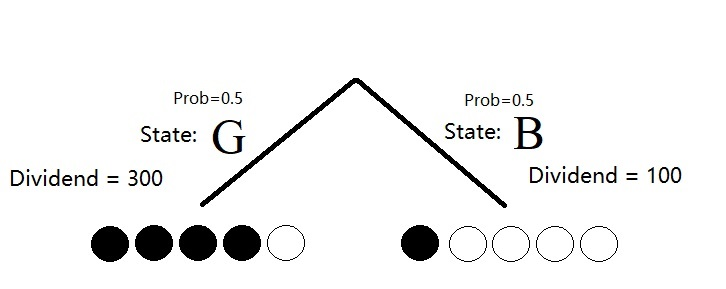
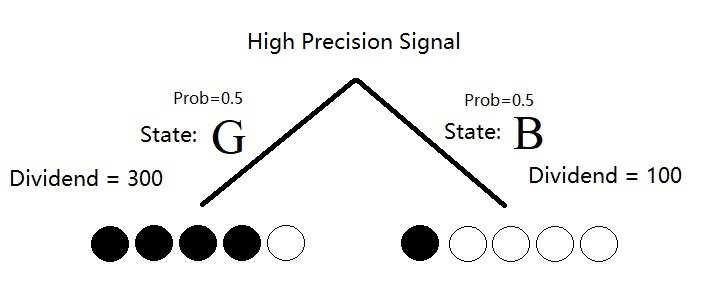
change for experienced env_b

Changed region(s): [[0.3333, 0.0934, 0.6364, 0.1869]]

diff --git a/templates/single_asset_market_overconfidence/Market.html b/templates/single_asset_market_overconfidence/Market.html
@@ -62,9 +62,9 @@
 			<img src="{{img_url}}"/> 
 			<p>
 				<!--  <b> All traders trade under the same state with the same signal type. </b> -->
-                 <!--  <b> All traders trade under the same state with half of the traders receiving 
-                    L-sig and the other half receiving H-sig. </b> -->
-                    <b> All traders trade under the same state. You only know your own signals, but do not know any information about other traders' signals. </b>
+                   <b> All traders trade under the same state with half of the traders receiving 
+                    L-sig and the other half receiving H-sig. </b> 
+                   <!-- <b> All traders trade under the same state. You only know your own signals, but do not know any information about other traders' signals. </b> -->
 			</p>
 		</div>
 	</div>
